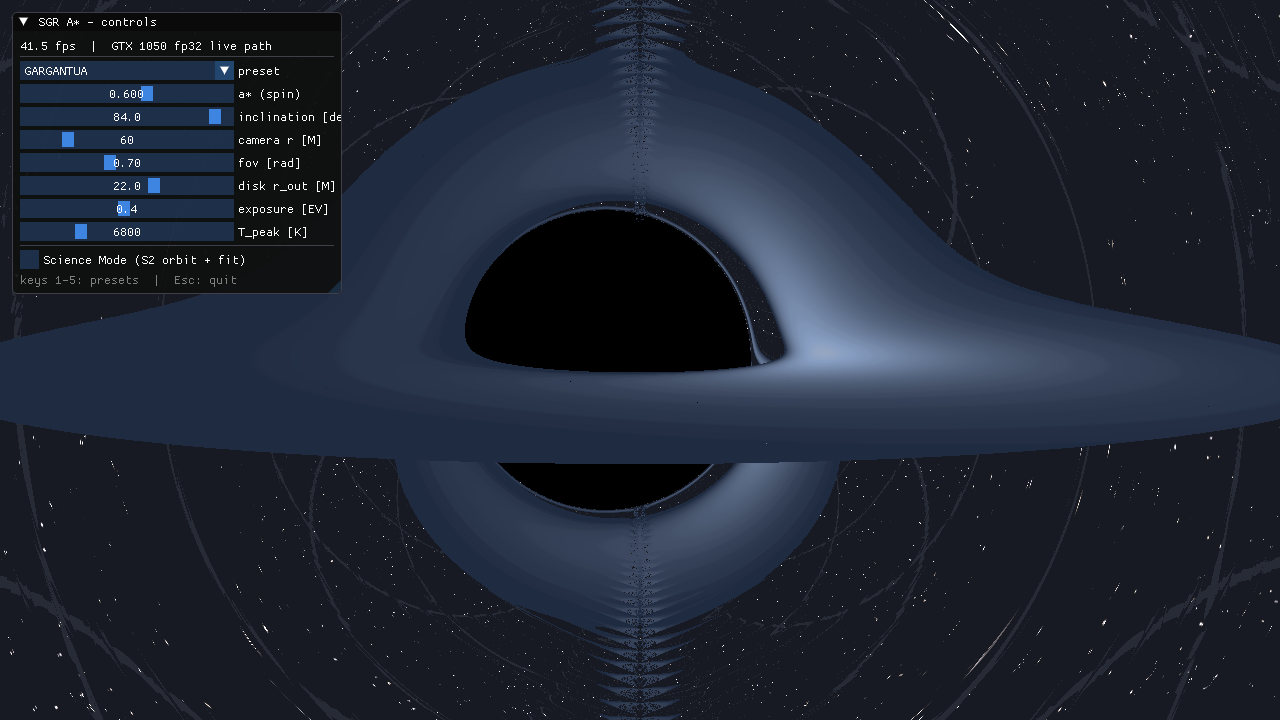
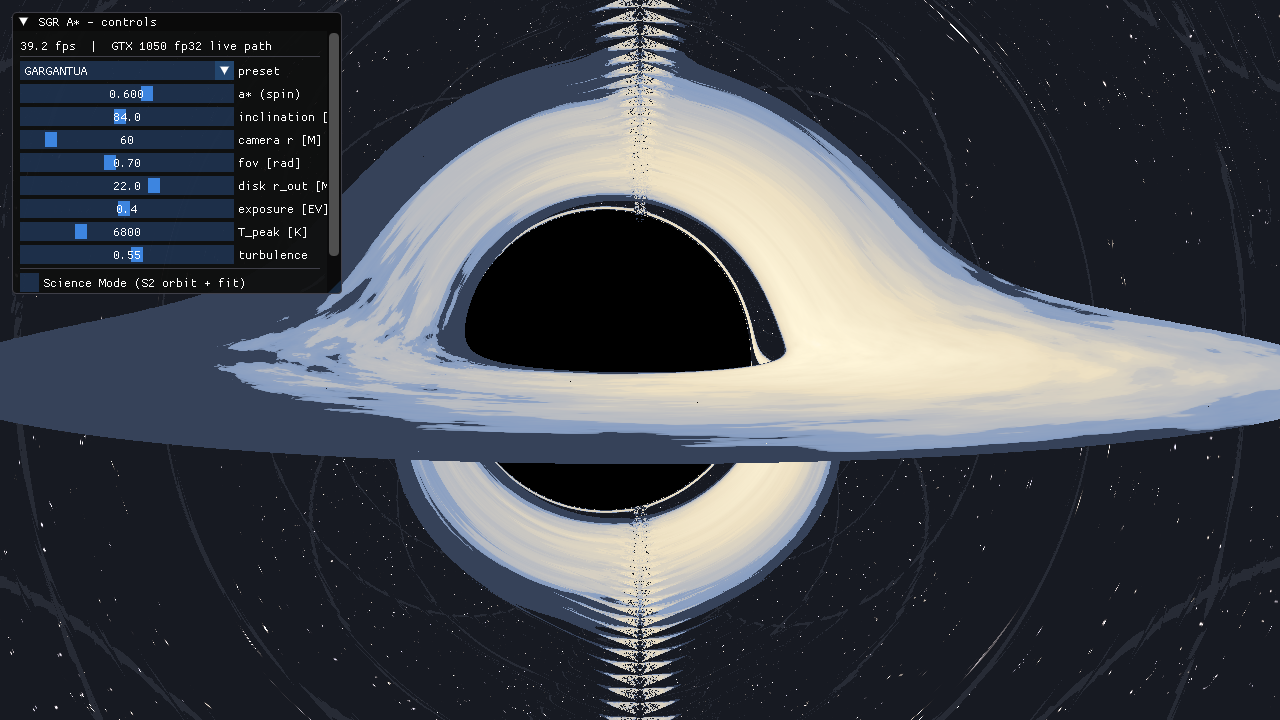
feat: 3D mouse orbit + Keplerian-sheared turbulence layer (hyper-real disk)
- Mouse-drag orbits the camera in full 3D (azimuth via axisymmetry phase,
  inclination 1-179 deg incl. below the disk plane, 90-deg dead zone);
  scroll zooms r_cam 15-400 M; ImGui gets input priority; --no-mouse for
  repeatable automated screenshots
- Turbulence layer (per-preset default, HUD slider): mean-1 multiplicative
  FBM filaments in (log r, phi), advected by the REAL Kerr circular-orbit
  Omega = 1/(r^1.5 + a) so differential rotation shears them into trailing
  spirals; multiplies Page-Thorne flux only - g^4 beaming, redshift and
  all science paths untouched (PHYSICAL preset stays turb = 0)
- Artistic presets: log-luminance display window (24 stops) - the physical
  (gT)^4 range spans ~4 decades and a linear ramp crushes everything but
  the beamed side to black; PHYSICAL keeps the honest linear pipeline
- Polar step-size guard in the live shader (theta equation stiffens near
  the axis); the remaining bright axial needle is the physical polar
  caustic of the far-side disk, aliased at 1 spp in live mode (CPU SSAA
  renders resolve it smoothly)
- README: controls + turbulence documentation; preset screenshots updated
- All runs: zero validation errors, 39-52 fps at 720p

Changed region(s): [[0.0, 0.0, 1.0, 1.0], [0.1562, 0.1528, 0.1875, 0.1833], [0.0312, 0.1833, 0.0625, 0.2139]]

diff --git a/engine/src/app.cpp b/engine/src/app.cpp
@@ -54,6 +54,21 @@ App::App(const AppOptions& opts) : opts_(opts) {
     if (opts_.t_peak_k > 0.0f) live_.t_peak_k = opts_.t_peak_k;
 
     live_.science_mode = opts_.science;
+
+    // Scroll = camera zoom (installed before ImGui's backend so its handler
+    // chains to ours; ImGui consumes the event first when a window is
+    // hovered — see the WantCaptureMouse guard in the callback).
+    glfwSetWindowUserPointer(ctx_->window(), this);
+    glfwSetScrollCallback(ctx_->window(), [](GLFWwindow* w, double, double dy) {
+        auto* app = static_cast<App*>(glfwGetWindowUserPointer(w));
+        if (!app || app->opts_.no_mouse || app->mode_ != UiMode::Simulation)
+            return;
+        if (app->hud_ && app->hud_->wants_mouse()) return;
+        app->live_.r_cam = std::clamp(
+            app->live_.r_cam * std::pow(0.90f, static_cast<float>(dy)),
+            15.0f, 400.0f);
+    });
+
     if (opts_.shader == "disk") load_luts();
 
     // Phase 9: cinematic menu — load the baked hero plate (blit source only;
@@ -100,6 +115,7 @@ void App::apply_preset(int index) {
     live_.exposure_ev = p.exposure_ev;
     live_.t_peak_k = p.t_peak_k;
     live_.r_cam = p.r_cam;
+    live_.turb = p.turb;
 }
 
 App::Texture App::create_texture_png(const std::string& path,
@@ -498,6 +514,8 @@ PushConstants App::make_push_constants(float t) const {
     pc.shade_mode = opts_.shader == "disk" ? live_.lut_slot : opts_.shade_mode;
     pc.y_offset = 0;
     pc.t_peak_k = live_.t_peak_k;
+    pc.turb = live_.turb;
+    pc.cam_phi = live_.cam_phi;
 
     // Page-Thorne normalisation, cached against the parameters it depends on.
     static thread_local double cached_a = -10.0, cached_rout = -1.0,
@@ -619,10 +637,37 @@ int App::run() {
                 return_to_menu();
         }
 
-        if (mode_ == UiMode::Simulation)
+        if (mode_ == UiMode::Simulation) {
             for (int k = 0; k < 5; ++k)
                 if (glfwGetKey(ctx_->window(), GLFW_KEY_1 + k) == GLFW_PRESS)
                     apply_preset(k);
+
+            // Mouse-drag orbit: horizontal = azimuth, vertical = inclination
+            // (full range — above and below the disk plane; a small dead zone
+            // at exactly 90° avoids the degenerate edge-on camera).
+            if (!opts_.no_mouse) {
+                double mx = 0.0, my = 0.0;
+                glfwGetCursorPos(ctx_->window(), &mx, &my);
+                const bool lmb = glfwGetMouseButton(ctx_->window(),
+                                                    GLFW_MOUSE_BUTTON_LEFT) ==
+                                 GLFW_PRESS;
+                const bool ui_mouse = hud_ && hud_->wants_mouse();
+                if (lmb && dragging_) {
+                    live_.cam_phi += static_cast<float>(mx - drag_x_) * 0.005f;
+                    float incl = live_.incl_deg +
+                                 static_cast<float>(my - drag_y_) * 0.20f;
+                    incl = std::clamp(incl, 1.0f, 179.0f);
+                    if (incl > 89.3f && incl < 90.7f)
+                        incl = (my - drag_y_) >= 0.0 ? 90.7f : 89.3f;
+                    live_.incl_deg = incl;
+                }
+                dragging_ = lmb && !ui_mouse;
+                drag_x_ = mx;
+                drag_y_ = my;
+            }
+        } else {
+            dragging_ = false;
+        }
         if (hud_) hud_->new_frame(fps_now);
 
         auto& f = ctx_->frame(frame_slot);

diff --git a/engine/src/ui/SimHUD.cpp b/engine/src/ui/SimHUD.cpp
@@ -203,6 +203,10 @@ void SimHUD::load_science_artifacts() {
     science_available_ = true;
 }
 
+bool SimHUD::wants_mouse() const {
+    return ImGui::GetCurrentContext() && ImGui::GetIO().WantCaptureMouse;
+}
+
 void SimHUD::new_frame(double fps) {
     ImGui_ImplVulkan_NewFrame();
     ImGui_ImplGlfw_NewFrame();
@@ -244,17 +248,21 @@ void SimHUD::draw_controls(double fps) {
         app_->apply_preset(preset);
     }
     ImGui::SliderFloat("a* (spin)", &lp.a_star, 0.0f, 0.998f, "%.3f");
-    ImGui::SliderFloat("inclination [deg]", &lp.incl_deg, 1.0f, 89.0f, "%.1f");
-    ImGui::SliderFloat("camera r [M]", &lp.r_cam, 25.0f, 200.0f, "%.0f");
+    ImGui::SliderFloat("inclination [deg]", &lp.incl_deg, 1.0f, 179.0f, "%.1f");
+    ImGui::SliderFloat("camera r [M]", &lp.r_cam, 15.0f, 400.0f, "%.0f");
     ImGui::SliderFloat("fov [rad]", &lp.fov, 0.2f, 1.4f, "%.2f");
     ImGui::SliderFloat("disk r_out [M]", &lp.disk_r_out, 8.0f, 30.0f, "%.1f");
     ImGui::SliderFloat("exposure [EV]", &lp.exposure_ev, -3.0f, 4.0f, "%.1f");
     ImGui::SliderFloat("T_peak [K]", &lp.t_peak_k, 2000.0f, 20000.0f, "%.0f");
+    ImGui::SliderFloat("turbulence", &lp.turb, 0.0f, 1.0f, "%.2f");
+    if (ImGui::IsItemHovered())
+        ImGui::SetTooltip("Artistic filament layer sheared by the real\n"
+                          "Keplerian rotation. 0 = pure Page-Thorne\n"
+                          "(the physics is identical either way).");
     ImGui::Separator();
     ImGui::Checkbox("Science Mode (S2 orbit + fit)", &lp.science_mode);
-    ImGui::TextDisabled(app_->menu_enabled()
-                            ? "keys 1-5: presets  |  Esc: menu"
-                            : "keys 1-5: presets  |  Esc: quit");
+    ImGui::TextDisabled("drag: orbit  |  wheel: zoom  |  keys 1-5: presets");
+    ImGui::TextDisabled(app_->menu_enabled() ? "Esc: menu" : "Esc: quit");
     ImGui::End();
 }
 

diff --git a/engine/src/app.hpp b/engine/src/app.hpp
@@ -27,6 +27,7 @@ struct AppOptions {
                                       // every N frames (Gate 9 evidence)
     std::string panel;                // open this menu panel at boot
                                       // (about|nohair|scope|gallery|settings)
+    bool no_mouse = false;            // ignore mouse orbit/zoom (automation)
     // Physics parameters forwarded to the shader (Phase 7+). Negative /
     // sentinel values mean "not set on the CLI": the preset (live mode) or
     // the per-shader defaults fill them in.
@@ -57,6 +58,8 @@ struct PushConstants {
     uint32_t y_offset;
     float flux_max;   // Page-Thorne max flux (CPU precomputed)
     float t_peak_k;   // peak disk temperature [K]
+    float turb;       // artistic turbulence amount 0..1 (0 = pure analytic)
+    float cam_phi;    // camera azimuth [rad] (axisymmetric: rotates the disk)
 };
 static_assert(sizeof(PushConstants) <= 128);
 
@@ -123,11 +126,15 @@ private:
     UiMode mode_ = UiMode::Simulation;
     Texture hero_{};
     bool esc_prev_ = false;
+    bool dragging_ = false;
+    double drag_x_ = 0.0, drag_y_ = 0.0;
 
 public:
     // Live-tunable state (edited by the HUD; consumed by make_push_constants).
     struct LiveParams {
         float a_star, incl_deg, fov, r_cam, disk_r_out, exposure_ev, t_peak_k;
+        float turb = 0.0f;    // artistic turbulence layer (post-validation)
+        float cam_phi = 0.0f; // orbit azimuth [rad], mouse-driven
         uint32_t lut_slot = 0;
         int preset = 0;
         bool science_mode = false;

diff --git a/engine/src/presets/DiskPreset.hpp b/engine/src/presets/DiskPreset.hpp
@@ -17,16 +17,20 @@ struct DiskPreset {
     float exposure_ev;
     float t_peak_k;
     float r_cam;           // camera radius [M]; wide disks need more distance
+    float turb;            // artistic turbulence 0..1 (0 = pure Page-Thorne)
 };
 
 // Slot map (binding 1): 0 disk_colormap (physical), 1 firestorm, 2 gargantua,
-// 3 arctic, 4 nebula.
+// 3 arctic, 4 nebula. The turbulence layer multiplies the Page-Thorne flux
+// with a mean-1 filament pattern sheared by the real Keplerian rotation —
+// it is display-only and set to 0 for the PHYSICAL preset (the rule:
+// artistic noise allowed only on top of validated physics).
 inline constexpr std::array<DiskPreset, 5> kDiskPresets{{
-    {"PHYSICAL (blackbody)", 0, 0.94f, 80.0f, 18.0f, 0.0f, 6300.0f, 60.0f},
-    {"FIRESTORM",            1, 0.94f, 80.0f, 18.0f, 0.3f, 6300.0f, 60.0f},
-    {"GARGANTUA",            2, 0.60f, 84.0f, 22.0f, 0.4f, 6800.0f, 60.0f},
-    {"ARCTIC",               3, 0.97f, 75.0f, 16.0f, 0.2f, 12000.0f, 60.0f},
-    {"NEBULA",               4, 0.35f, 70.0f, 28.0f, 0.3f, 5200.0f, 90.0f},
+    {"PHYSICAL (blackbody)", 0, 0.94f, 80.0f, 18.0f, 0.0f, 6300.0f, 60.0f, 0.00f},
+    {"FIRESTORM",            1, 0.94f, 80.0f, 18.0f, 0.3f, 6300.0f, 60.0f, 0.65f},
+    {"GARGANTUA",            2, 0.60f, 84.0f, 22.0f, 0.4f, 6800.0f, 60.0f, 0.55f},
+    {"ARCTIC",               3, 0.97f, 75.0f, 16.0f, 0.2f, 12000.0f, 60.0f, 0.50f},
+    {"NEBULA",               4, 0.35f, 70.0f, 28.0f, 0.3f, 5200.0f, 90.0f, 0.60f},
 }};
 
 } // namespace sgr

diff --git a/engine/src/main.cpp b/engine/src/main.cpp
@@ -42,6 +42,7 @@ int main(int argc, char** argv) {
         else if (!std::strcmp(argv[i], "--menu")) opts.menu = true;
         else if (!std::strcmp(argv[i], "--demo")) opts.demo_frames = std::atoi(next("--demo"));
         else if (!std::strcmp(argv[i], "--panel")) opts.panel = next("--panel");
+        else if (!std::strcmp(argv[i], "--no-mouse")) opts.no_mouse = true;
         else if (!std::strcmp(argv[i], "--science")) opts.science = true;
         else if (!std::strcmp(argv[i], "--preset")) opts.preset = std::atoi(next("--preset"));
         else if (!std::strcmp(argv[i], "--scale")) opts.render_scale = static_cast<float>(std::atof(next("--scale")));

diff --git a/engine/src/ui/SimHUD.hpp b/engine/src/ui/SimHUD.hpp
@@ -30,6 +30,10 @@ public:
     // Build this frame's UI (call between glfwPollEvents and record).
     void new_frame(double fps);
 
+    // True when ImGui owns the mouse (hovering/dragging a window) — the
+    // camera orbit/zoom controls stand down then.
+    bool wants_mouse() const;
+
     // Record the overlay pass over the given swapchain image
     // (expects TRANSFER_DST_OPTIMAL; leaves PRESENT_SRC_KHR).
     void record(VkCommandBuffer cmd, uint32_t sc_index);

diff --git a/README.md b/README.md
@@ -100,8 +100,16 @@ and add `--validation` (exit code = error count; the gates require zero).
 
 ## 🎛 The modes
 
-Navigate the menu with **↑/↓ + Enter** or the mouse. In the simulation,
-keys **1–5** switch presets and **Esc** returns to the menu.
+Navigate the menu with **↑/↓ + Enter** or the mouse. In the simulation:
+
+- **drag** to orbit the black hole in 3D — full 360° azimuth and inclination,
+  above *and* below the disk plane
+- **scroll** to zoom (camera radius 15–400 M)
+- keys **1–5** switch presets, **Esc** returns to the menu
+- the **turbulence** slider adds a filament layer sheared by the real
+  Keplerian differential rotation — display-only, mean-1 on the
+  Page–Thorne flux, so the g⁴ Doppler physics is untouched (set it to 0,
+  or use the PHYSICAL preset, for the exact analytic disk)
 
 | Menu item | What it does |
 |---|---|
@@ -146,6 +154,7 @@ keys **1–5** switch presets and **Esc** returns to the menu.
 --astar X --incl DEG  override physics parameters
 --width W --height H  window size          --scale S   render-resolution knob
 --frames N            exit after N frames  --screenshot out.png
+--no-mouse            disable orbit/zoom input (repeatable screenshots)
 --validation          Vulkan validation layers ON (exit code = error count)
 ```
 
